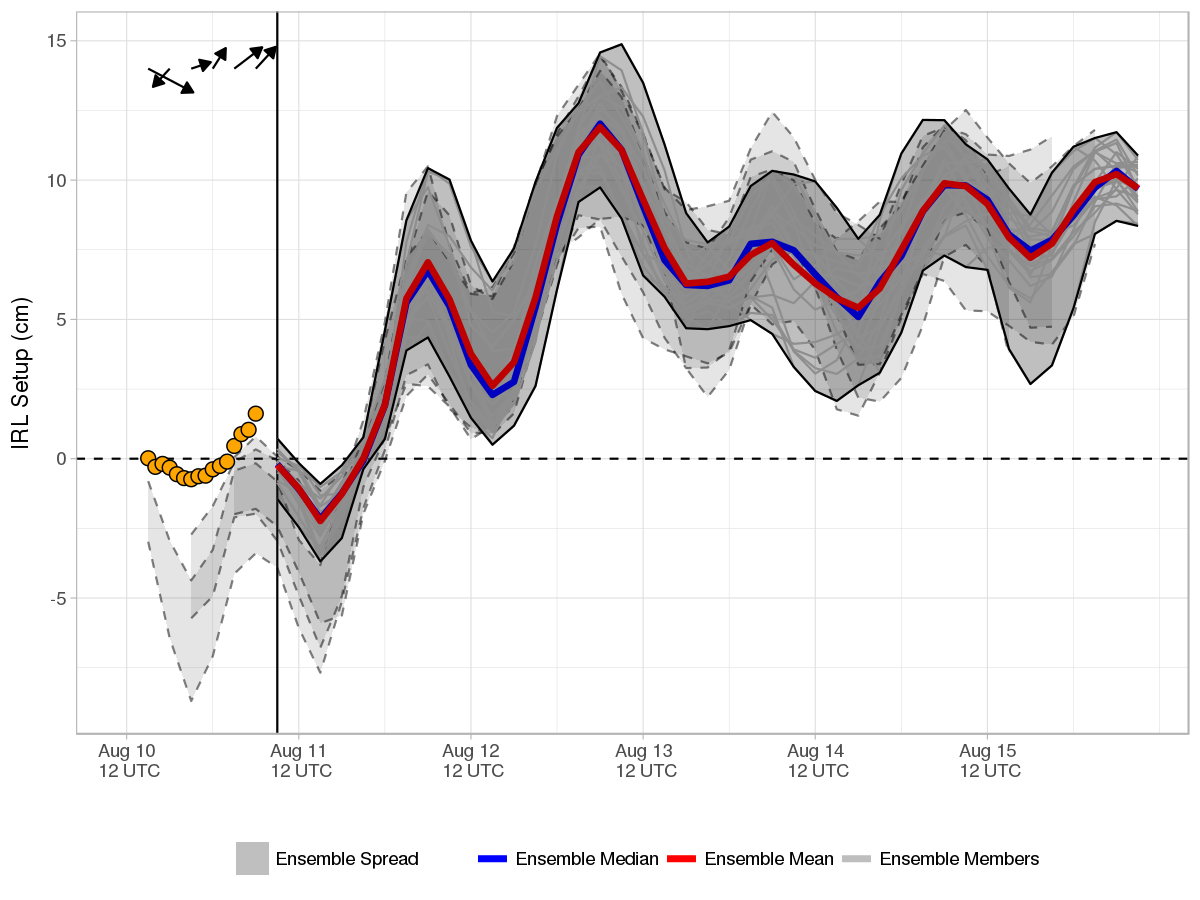
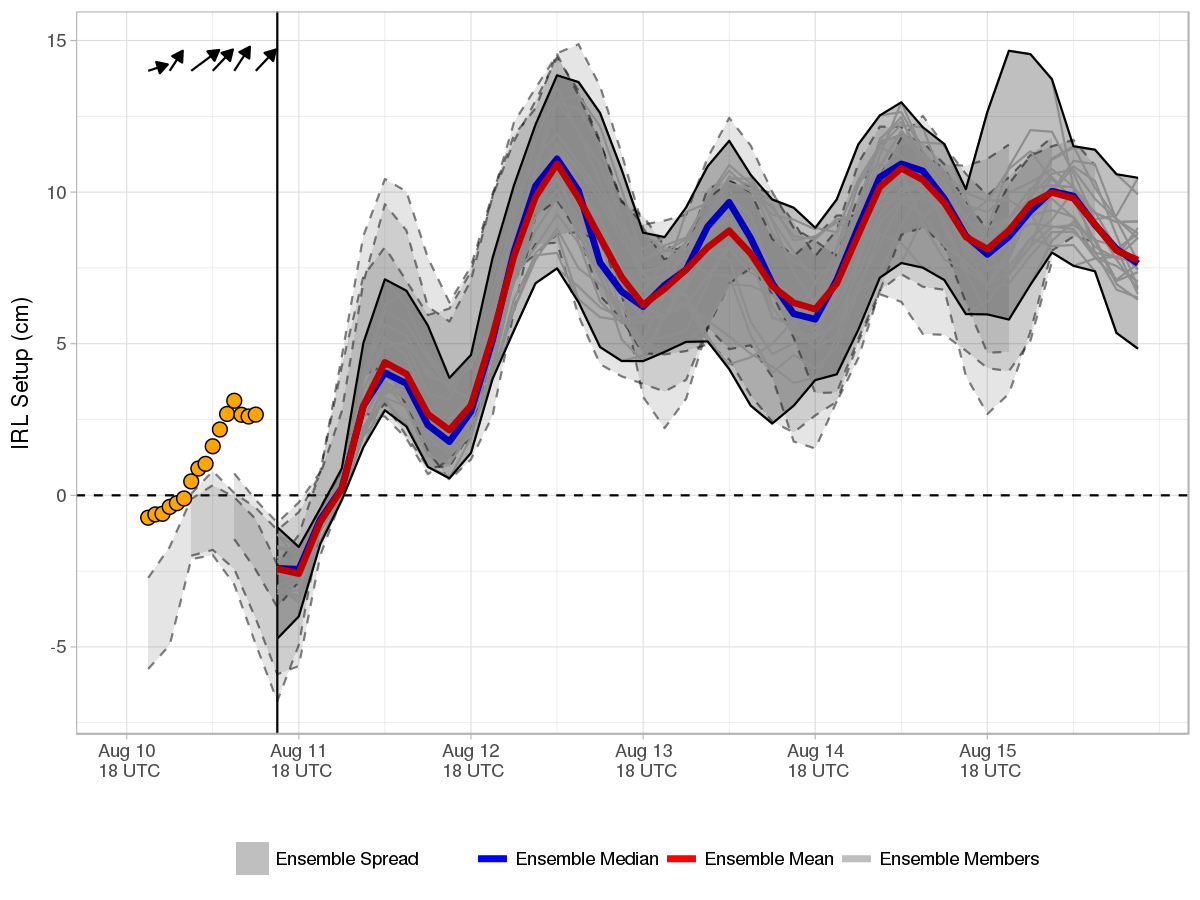
Forecast Update

Changed region(s): [[0.0925, 0.0311, 0.9558, 0.7778], [0.1233, 0.0311, 0.2158, 0.0933], [0.0308, 0.1867, 0.0617, 0.2178]]

diff --git a/docs/index.md b/docs/index.md
@@ -1,9 +1,9 @@
-Current Forecast 2018-08-11, Cycle 00UTC
+Current Forecast 2018-08-11, Cycle 06UTC
 ----------------------------------------
 
 [![](img/raw_setup.png)](https://fit-winds.github.io/IRLSetup/img/raw_setup.png)
 
-> Forecast valid 2018-08-11 02:27:14.
+> Forecast valid 2018-08-11 08:22:40.
 
 Explanation
 -----------
@@ -17,7 +17,7 @@ star), and Sebastian, FL (white star). In general, southerly (northerly)
 winds result in increased water elevation near Titusville (Sebastian)
 and positive (negative) setup.
 
-The current cycle 2018-08-11 00UTC 0.5° [Global Ensemble Forecast System
+The current cycle 2018-08-11 06UTC 0.5° [Global Ensemble Forecast System
 (GEFS)](https://www.ncdc.noaa.gov/data-access/model-data/model-datasets/global-ensemble-forecast-system-gefs)
 mean and median forecasts of setup are represented by the red and blue
 curves, respectively. Ensemble spread from the current and three
